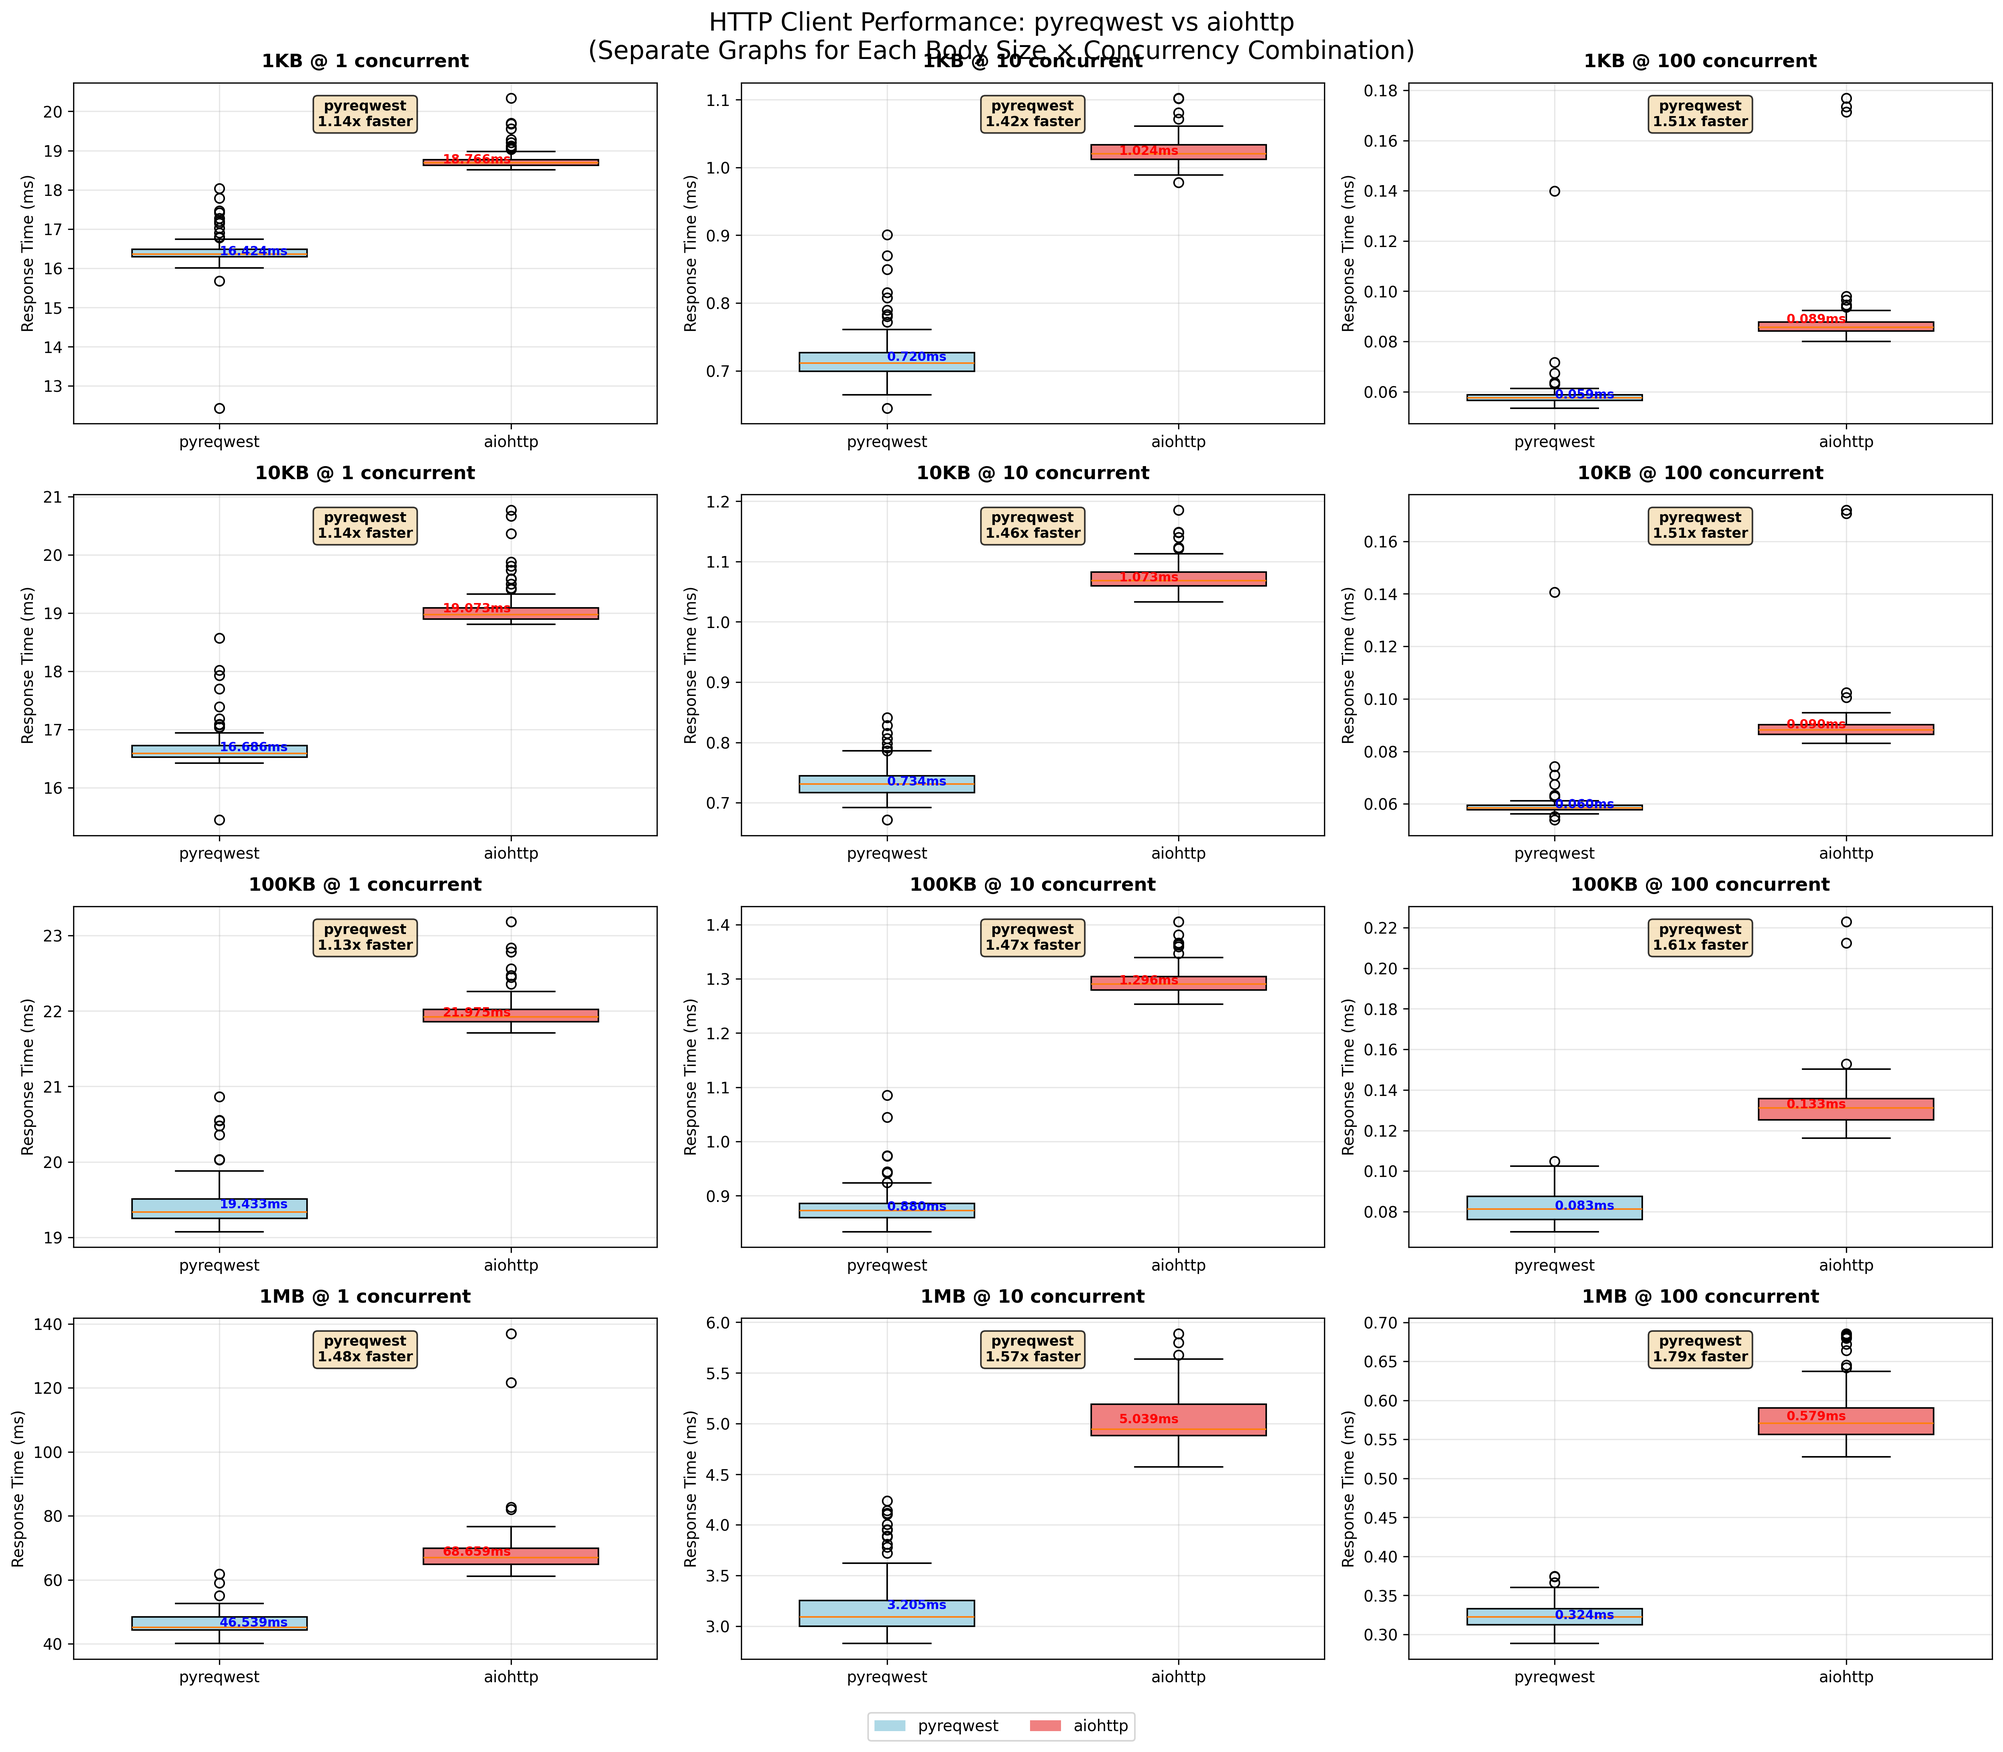
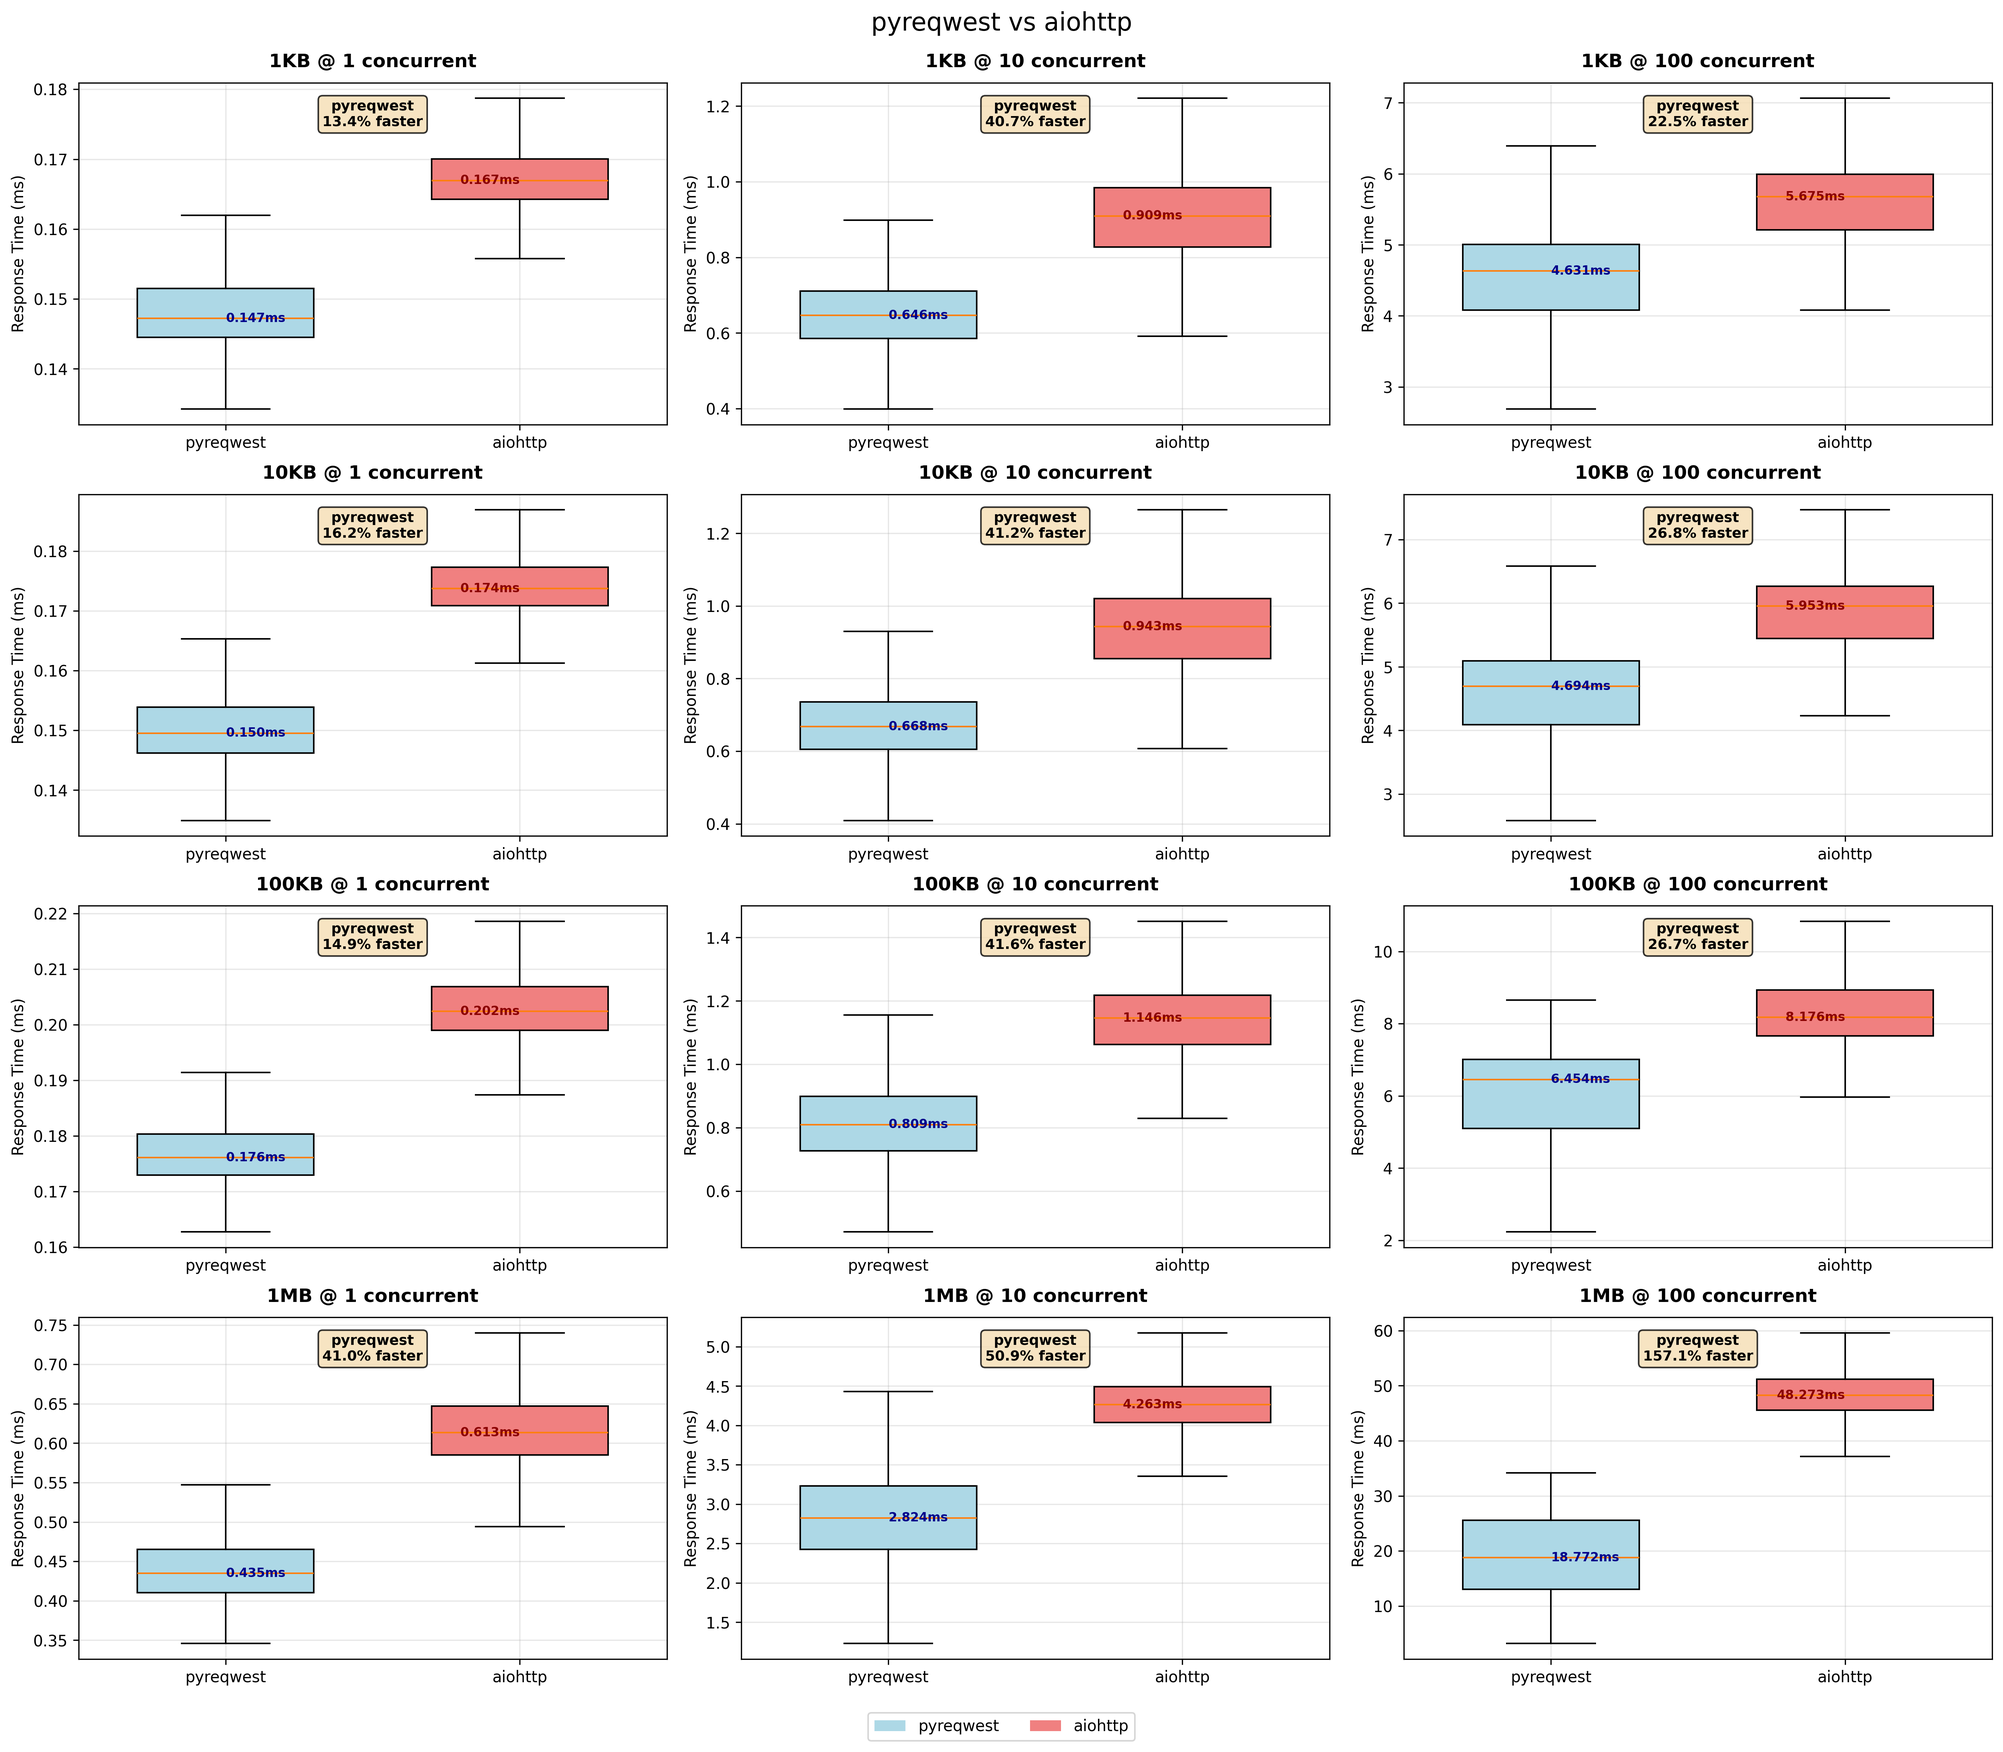
Improve plots

diff --git a/benchmark_performance.py b/benchmark_performance.py
@@ -3,10 +3,12 @@
 import asyncio
 import statistics
 import time
-from typing import Coroutine, Any, Callable
+from typing import Coroutine, Any, Callable, Iterable
 
 import aiohttp
 import matplotlib.pyplot as plt
+from matplotlib.axes import Axes
+
 from pyreqwest.client import ClientBuilder
 
 from tests.servers.echo_server import EchoServer
@@ -39,7 +41,7 @@ class PerformanceBenchmark:
         """Generate test body of specified size."""
         return b"x" * size
 
-    async def run_concurrency_limited(self, coros: list[Coroutine[Any, Any, None]], concurrency: int) -> None:
+    async def run_concurrency_limited(self, coros: Iterable[Coroutine[Any, Any, None]], concurrency: int) -> None:
         """Run tasks with a limit on concurrency."""
         semaphore = asyncio.Semaphore(concurrency)
 
@@ -49,17 +51,20 @@ class PerformanceBenchmark:
 
         await asyncio.gather(*(sem_task(coro) for coro in coros))
 
-    async def meas_concurrent_batch(self, fn: Callable[[], Coroutine[Any, Any, None]], concurrency: int) -> float:
-        start_time = time.perf_counter()
-        tasks = [fn() for _ in range(self.requests)]
-        await self.run_concurrency_limited(tasks, concurrency)
-        end_time = time.perf_counter()
-        return (end_time - start_time) * 1000  # Convert to ms
+    async def meas_concurrent_batch(
+        self, fn: Callable[[], Coroutine[Any, Any, None]], concurrency: int, timings: list[float]
+    ) -> None:
+        async def measured_fn() -> None:
+            start_time = time.perf_counter()
+            await fn()
+            timings.append((time.perf_counter() - start_time) * 1000)
+
+        await self.run_concurrency_limited((measured_fn() for _ in range(self.requests)), concurrency)
 
     async def benchmark_pyreqwest_concurrent(self, body_size: int, concurrency: int) -> list[float]:
         """Benchmark pyreqwest with specified body size and concurrency."""
         body = self.generate_body(body_size)
-        times = []
+        timings = []
 
         async with ClientBuilder().build() as client:
             async def post_read():
@@ -69,23 +74,20 @@ class PerformanceBenchmark:
             # Warmup rounds
             print(f"    Warming up ({self.warmup_iterations} batches with {concurrency} concurrent requests)...")
             for _ in range(self.warmup_iterations):
-                await self.meas_concurrent_batch(post_read, concurrency)
+                await self.meas_concurrent_batch(post_read, concurrency, [])
 
             # Actual benchmark rounds
             print(f"    Running benchmark ({self.iterations} batches with {concurrency} concurrent requests)...")
             for _ in range(self.iterations):
-                batch_time = await self.meas_concurrent_batch(post_read, concurrency)
-                # Calculate average time per request in the batch
-                avg_time_per_request = batch_time / concurrency
-                times.append(avg_time_per_request)
+                await self.meas_concurrent_batch(post_read, concurrency, timings)
 
-        return times
+        return timings
 
     async def benchmark_aiohttp_concurrent(self, body_size: int, concurrency: int) -> list[float]:
         """Benchmark aiohttp with specified body size and concurrency."""
         body = self.generate_body(body_size)
         url_str = str(self.url)
-        times = []
+        timings = []
 
         async with aiohttp.ClientSession() as session:
             async def post_read():
@@ -95,17 +97,14 @@ class PerformanceBenchmark:
             # Warmup rounds
             print(f"    Warming up ({self.warmup_iterations} batches with {concurrency} concurrent requests)...")
             for _ in range(self.warmup_iterations):
-                await self.meas_concurrent_batch(post_read, concurrency)
+                await self.meas_concurrent_batch(post_read, concurrency, [])
 
             # Actual benchmark rounds
             print(f"    Running benchmark ({self.iterations} batches with {concurrency} concurrent requests)...")
             for _ in range(self.iterations):
-                batch_time = await self.meas_concurrent_batch(post_read, concurrency)
-                # Calculate average time per request in the batch
-                avg_time_per_request = batch_time / concurrency
-                times.append(avg_time_per_request)
+                await self.meas_concurrent_batch(post_read, concurrency, timings)
 
-        return times
+        return timings
 
     async def run_benchmarks(self) -> None:
         """Run all benchmarks."""
@@ -147,38 +146,33 @@ class PerformanceBenchmark:
 
     def create_plot(self) -> None:
         # Create a grid layout - 4 rows × 3 columns for 12 subplots
-        fig, axes = plt.subplots(4, 3, figsize=(18, 16))
-        fig.suptitle("HTTP Client Performance: pyreqwest vs aiohttp\n(Separate Graphs for Each Body Size × Concurrency Combination)",
-                     fontsize=16, y=0.98)
+        fig, axes = plt.subplots(nrows=len(self.body_sizes), ncols=len(self.concurrency_levels), figsize=(18, 16))
+        fig.suptitle("pyreqwest vs aiohttp", fontsize=16, y=0.98)
+        legend_colors = {"pyreqwest": "lightblue", "aiohttp": "lightcoral"}
 
-        # Flatten axes for easier iteration
-        axes = axes.flatten()
-
-        plot_index = 0
         for i, body_size in enumerate(self.body_sizes):
             size_label = f"{body_size//1000}KB" if body_size < 1_000_000 else f"{body_size//1_000_000}MB"
 
             for j, concurrency in enumerate(self.concurrency_levels):
-                ax = axes[plot_index]
+                ax: Axes = axes[i][j]
 
                 # Prepare data for this specific combination
                 data_to_plot = [
                     self.results["pyreqwest"][body_size][concurrency],
                     self.results["aiohttp"][body_size][concurrency]
                 ]
-                labels = ["pyreqwest", "aiohttp"]
-                colors = ["lightblue", "lightcoral"]
 
                 # Create box plot for this specific body size and concurrency combination
                 box_plot = ax.boxplot(
                     data_to_plot,
                     patch_artist=True,
-                    tick_labels=labels,
+                    showfliers=False,
+                    tick_labels=[*legend_colors.keys()],
                     widths=0.6,
                 )
 
                 # Color the boxes
-                for patch, color in zip(box_plot["boxes"], colors):
+                for patch, color in zip(box_plot["boxes"], legend_colors.values()):
                     patch.set_facecolor(color)
 
                 # Customize subplot
@@ -187,16 +181,16 @@ class PerformanceBenchmark:
                 ax.grid(True, alpha=0.3)
 
                 # Calculate and add performance comparison
-                pyreqwest_avg = statistics.mean(self.results["pyreqwest"][body_size][concurrency])
-                aiohttp_avg = statistics.mean(self.results["aiohttp"][body_size][concurrency])
-                speedup = aiohttp_avg / pyreqwest_avg if pyreqwest_avg != 0 else 0
+                pyreqwest_median = statistics.median(self.results["pyreqwest"][body_size][concurrency])
+                aiohttp_median = statistics.median(self.results["aiohttp"][body_size][concurrency])
+                speedup = aiohttp_median / pyreqwest_median if pyreqwest_median != 0 else 0
 
                 if speedup > 1:
                     faster_lib = "pyreqwest"
-                    speedup_text = f"{speedup:.2f}x faster"
+                    speedup_text = f"{((speedup - 1) * 100):.1f}% faster"
                 else:
                     faster_lib = "aiohttp"
-                    speedup_text = f"{1/speedup:.2f}x faster"
+                    speedup_text = f"{((1/speedup - 1) * 100):.1f}% faster"
 
                 # Add performance annotation
                 ax.text(0.5, 0.95, f"{faster_lib}\n{speedup_text}",
@@ -204,113 +198,32 @@ class PerformanceBenchmark:
                        bbox=dict(boxstyle="round,pad=0.3", facecolor="wheat", alpha=0.8),
                        fontsize=9, fontweight='bold')
 
-                # Add average time annotations
-                ax.text(1, pyreqwest_avg, f"{pyreqwest_avg:.3f}ms",
-                       ha='left', va='center', fontsize=8, color='blue', fontweight='bold')
-                ax.text(2, aiohttp_avg, f"{aiohttp_avg:.3f}ms",
-                       ha='right', va='center', fontsize=8, color='red', fontweight='bold')
-
-                plot_index += 1
-
-        # Hide any unused subplots
-        for i in range(plot_index, len(axes)):
-            axes[i].set_visible(False)
+                # Add median time annotations
+                ax.text(1, pyreqwest_median, f"{pyreqwest_median:.3f}ms",
+                       ha='left', va='center', fontsize=8, color='darkblue', fontweight='bold')
+                ax.text(2, aiohttp_median, f"{aiohttp_median:.3f}ms",
+                       ha='right', va='center', fontsize=8, color='darkred', fontweight='bold')
 
         # Add overall legend
-        blue_patch = plt.Rectangle((0, 0), 1, 1, facecolor="lightblue", label="pyreqwest")
-        coral_patch = plt.Rectangle((0, 0), 1, 1, facecolor="lightcoral", label="aiohttp")
-        fig.legend(handles=[blue_patch, coral_patch], loc='lower center',
-                  bbox_to_anchor=(0.5, 0.01), ncol=2)
+        legends = [
+            plt.Rectangle(xy=(0, 0), width=1, height=1, label=label, facecolor=color)
+            for label, color in legend_colors.items()
+        ]
+        fig.legend(handles=legends, loc='lower center', bbox_to_anchor=(0.5, 0.01), ncol=2)
 
         plt.tight_layout()
         plt.subplots_adjust(top=0.94, bottom=0.06)  # Make room for suptitle and legend
 
         # Save the plot
         plt.savefig("performance_benchmark_boxplot.png", dpi=300, bbox_inches="tight")
-        print("Comprehensive plot saved as 'performance_benchmark_boxplot.png'")
-
-    def print_summary(self) -> None:
-        """Print comprehensive benchmark summary."""
-        print("\n" + "="*80)
-        print("PERFORMANCE BENCHMARK SUMMARY")
-        print("="*80)
-
-        for body_size in self.body_sizes:
-            size_label = f"{body_size//1000}KB" if body_size < 1_000_000 else f"{body_size//1_000_000}MB"
-            print(f"\n{size_label} Body Size:")
-            print("-" * 40)
-
-            for concurrency in self.concurrency_levels:
-                pyreqwest_times = self.results["pyreqwest"][body_size][concurrency]
-                aiohttp_times = self.results["aiohttp"][body_size][concurrency]
-
-                pyreqwest_stats = {
-                    "mean": statistics.mean(pyreqwest_times),
-                    "median": statistics.median(pyreqwest_times),
-                    "stdev": statistics.stdev(pyreqwest_times),
-                    "min": min(pyreqwest_times),
-                    "max": max(pyreqwest_times),
-                }
-
-                aiohttp_stats = {
-                    "mean": statistics.mean(aiohttp_times),
-                    "median": statistics.median(aiohttp_times),
-                    "stdev": statistics.stdev(aiohttp_times),
-                    "min": min(aiohttp_times),
-                    "max": max(aiohttp_times),
-                }
-
-                print(f"\n  Concurrency Level: {concurrency}")
-                print(f"    pyreqwest - Mean: {pyreqwest_stats['mean']:.4f}ms, "
-                      f"Median: {pyreqwest_stats['median']:.4f}ms, "
-                      f"StdDev: {pyreqwest_stats['stdev']:.4f}ms")
-                print(f"    aiohttp   - Mean: {aiohttp_stats['mean']:.4f}ms, "
-                      f"Median: {aiohttp_stats['median']:.4f}ms, "
-                      f"StdDev: {aiohttp_stats['stdev']:.4f}ms")
-
-                speedup = aiohttp_stats['mean'] / pyreqwest_stats['mean'] if pyreqwest_stats['mean'] != 0 else 0
-                if speedup > 1:
-                    print(f"    Winner: pyreqwest ({speedup:.2f}x faster)")
-                else:
-                    print(f"    Winner: aiohttp ({1/speedup:.2f}x faster)")
-
-        # Overall summary
-        print(f"\n{'='*80}")
-        print("OVERALL PERFORMANCE TRENDS")
-        print("="*80)
-
-        for concurrency in self.concurrency_levels:
-            pyreqwest_wins = 0
-            aiohttp_wins = 0
-
-            for body_size in self.body_sizes:
-                pyreqwest_avg = statistics.mean(self.results["pyreqwest"][body_size][concurrency])
-                aiohttp_avg = statistics.mean(self.results["aiohttp"][body_size][concurrency])
-
-                if pyreqwest_avg < aiohttp_avg:
-                    pyreqwest_wins += 1
-                else:
-                    aiohttp_wins += 1
-
-            print(f"\nConcurrency Level {concurrency}:")
-            print(f"  pyreqwest wins: {pyreqwest_wins}/{len(self.body_sizes)} body sizes")
-            print(f"  aiohttp wins: {aiohttp_wins}/{len(self.body_sizes)} body sizes")
+        print("Plot saved as 'performance_benchmark_boxplot.png'")
 
 
 async def main() -> None:
-    """Main benchmark function."""
-    # Start echo server using context manager
     async with EchoServer().serve_context() as echo_server:
-        # Wait a moment for server to be ready
-        await asyncio.sleep(0.1)
-
-        # Run benchmarks
         benchmark = PerformanceBenchmark(echo_server)
         await benchmark.run_benchmarks()
-
-        # Create visualizations and print summary
         benchmark.create_plot()
-        benchmark.print_summary()
 
 
 if __name__ == "__main__":
